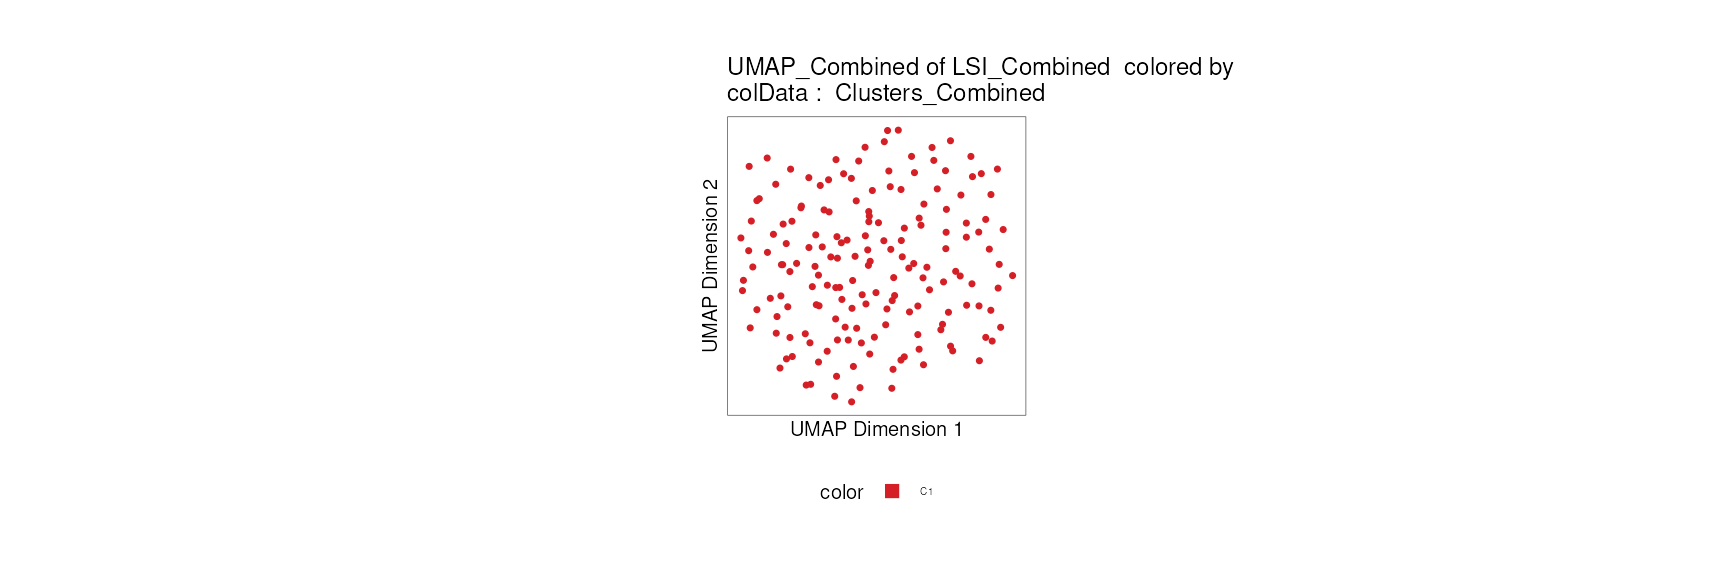
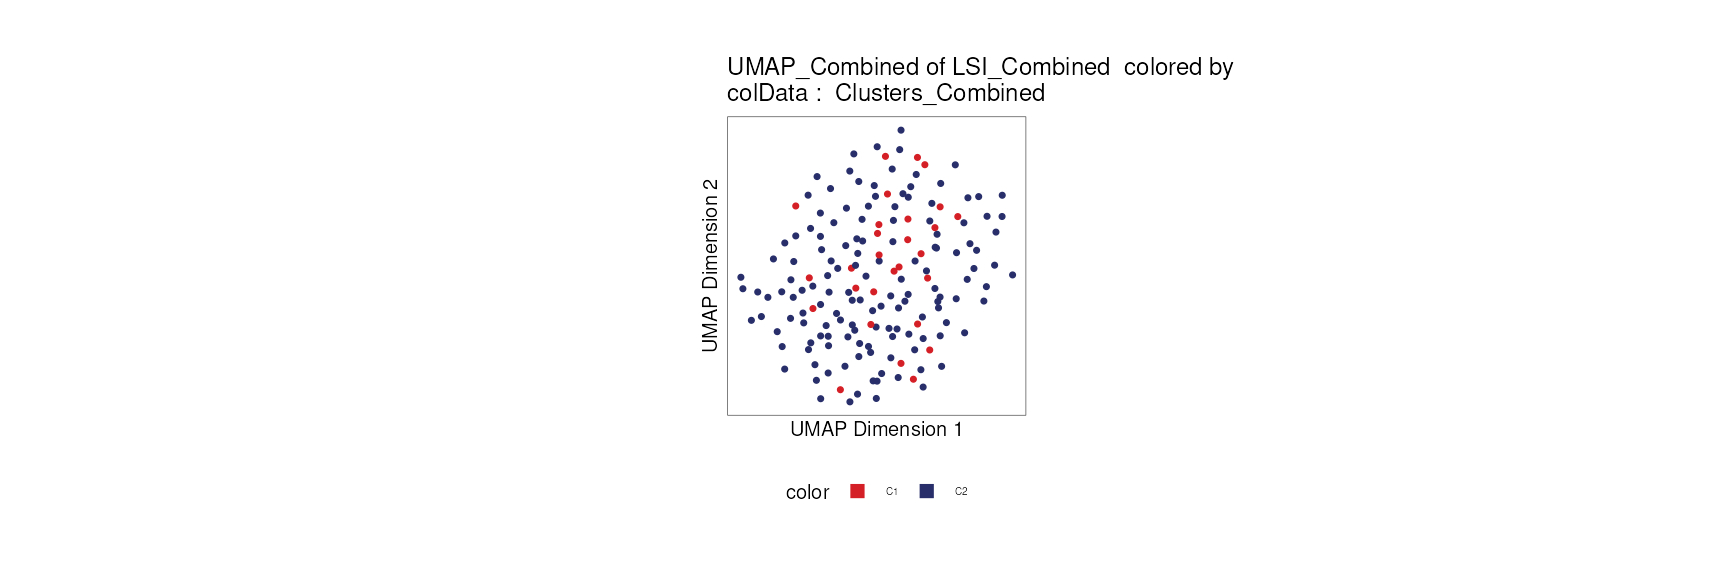
Deploying to gh-pages from @ jianhong/scHiCARdownstream@5e9bd70502f5749d095607f0fa58ab78c9858cb1 🚀

Changed region(s): [[0.4062, 0.2188, 0.5938, 0.7188], [0.4375, 0.8438, 0.5625, 0.875]]

diff --git a/articles/scHiCARdownstream.html b/articles/scHiCARdownstream.html
@@ -70,7 +70,7 @@ analysis via ArchR</h1>
                         <h4 data-toc-skip class="author">Jianhong
 Ou</h4>
             
-            <h4 data-toc-skip class="date">16 May 2026</h4>
+            <h4 data-toc-skip class="date">18 May 2026</h4>
       
       <small class="dont-index">Source: <a href="https://github.com/jianhong/scHiCARdownstream/blob/main/vignettes/scHiCARdownstream.Rmd" class="external-link"><code>vignettes/scHiCARdownstream.Rmd</code></a></small>
       <div class="hidden name"><code>scHiCARdownstream.Rmd</code></div>
@@ -145,20 +145,20 @@ downstream analysis of scHiCAR data:</p>
 <pre><code><span><span class="co">## Modularity Optimizer version 1.3.0 by Ludo Waltman and Nees Jan van Eck</span></span>
 <span><span class="co">## </span></span>
 <span><span class="co">## Number of nodes: 170</span></span>
-<span><span class="co">## Number of edges: 6803</span></span>
+<span><span class="co">## Number of edges: 6795</span></span>
 <span><span class="co">## </span></span>
 <span><span class="co">## Running Louvain algorithm...</span></span>
-<span><span class="co">## Maximum modularity in 10 random starts: 0.6195</span></span>
+<span><span class="co">## Maximum modularity in 10 random starts: 0.6168</span></span>
 <span><span class="co">## Number of communities: 2</span></span>
 <span><span class="co">## Elapsed time: 0 seconds</span></span></code></pre>
 <pre><code><span><span class="co">## Modularity Optimizer version 1.3.0 by Ludo Waltman and Nees Jan van Eck</span></span>
 <span><span class="co">## </span></span>
 <span><span class="co">## Number of nodes: 170</span></span>
-<span><span class="co">## Number of edges: 7836</span></span>
+<span><span class="co">## Number of edges: 7235</span></span>
 <span><span class="co">## </span></span>
 <span><span class="co">## Running Louvain algorithm...</span></span>
-<span><span class="co">## Maximum modularity in 10 random starts: 0.6000</span></span>
-<span><span class="co">## Number of communities: 1</span></span>
+<span><span class="co">## Maximum modularity in 10 random starts: 0.6078</span></span>
+<span><span class="co">## Number of communities: 2</span></span>
 <span><span class="co">## Elapsed time: 0 seconds</span></span></code></pre>
 <div class="sourceCode" id="cb9"><pre class="downlit sourceCode r">
 <code class="sourceCode R"><span><span class="fu"><a href="https://www.ArchRProject.com/reference/plotEmbedding.html" class="external-link">plotEmbedding</a></span><span class="op">(</span><span class="va">proj</span>, </span>
@@ -275,7 +275,7 @@ downstream analysis of scHiCAR data:</p>
 <span><span class="co">## [139] patchwork_1.3.2          bit64_4.8.0              Rhdf5lib_2.1.0          </span></span>
 <span><span class="co">## [142] KEGGREST_1.53.0          shiny_1.13.0             AnnotationHub_4.1.0     </span></span>
 <span><span class="co">## [145] ROCR_1.0-12              igraph_2.3.1             memoise_2.0.1           </span></span>
-<span><span class="co">## [148] bslib_0.10.0             bit_4.6.0</span></span></code></pre>
+<span><span class="co">## [148] bslib_0.11.0             bit_4.6.0</span></span></code></pre>
 </div>
   </div>
 

diff --git a/reference/prepareHigashiFiles.html b/reference/prepareHigashiFiles.html
@@ -98,7 +98,8 @@ See https://github.com/ma-compbio/Higashi/wiki/Configure-the-parameters-for-Fast
 
 
 <dt id="arg-use-conda">use_conda<a class="anchor" aria-label="anchor" href="#arg-use-conda"></a></dt>
-<dd><p>Use conda to create the python enviroment or not</p></dd>
+<dd><p>Use conda to create the python environment or not. If a path
+is given, will use that conda env.</p></dd>
 
 </dl></div>
     <div id="value">

diff --git a/reference/runFastHigashi.html b/reference/runFastHigashi.html
@@ -65,7 +65,8 @@
 
 
 <dt id="arg-use-conda">use_conda<a class="anchor" aria-label="anchor" href="#arg-use-conda"></a></dt>
-<dd><p>Use conda to create the python enviroment or not</p></dd>
+<dd><p>Use conda to create the python environment or not. If a path
+is given, will use that conda env.</p></dd>
 
 </dl></div>
     <div id="value">
